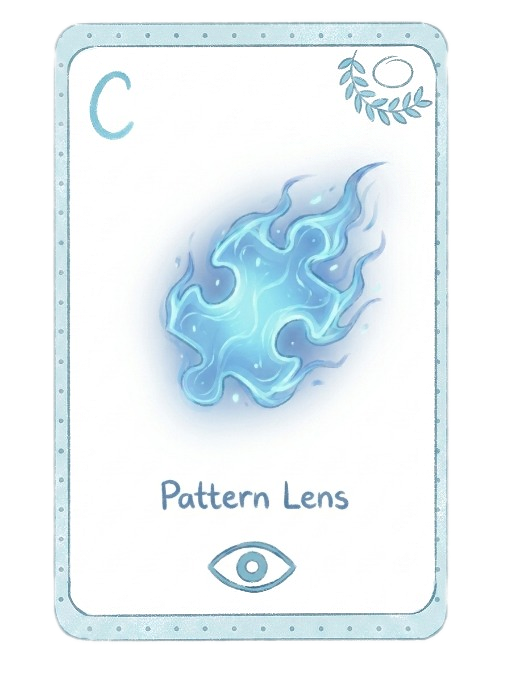
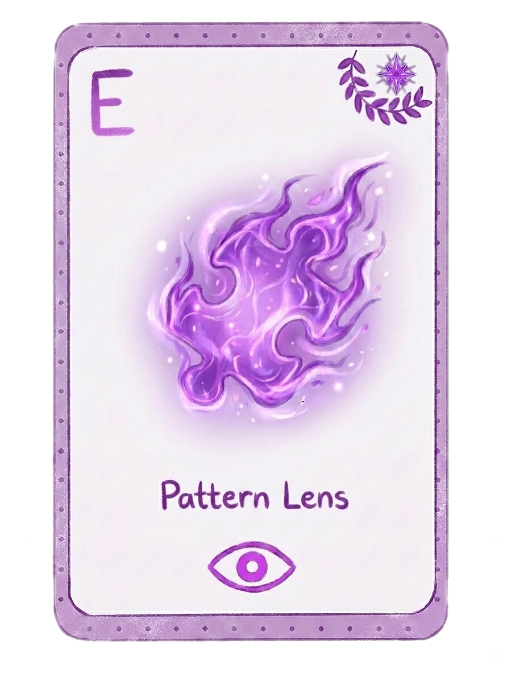
Alteracoes Website 09/05/2026 - Alteracao de designs de blessings

diff --git a/src/components/CollectibleAvatar.jsx b/src/components/CollectibleAvatar.jsx
@@ -15,6 +15,10 @@ function CollectibleAvatar({ collectibleName, className, style = {} }) {
 
     if (collectibleName.toLowerCase() === 'vhs tape') {
       fileName = 'VHS Tape.png';
+    } else if (collectibleName.toLowerCase() === 'dream pillows' || collectibleName.toLowerCase() === 'dreams pillow') {
+      fileName = 'Dreams Pillow.png';
+    } else if (collectibleName.toLowerCase() === 'climbing trophy') {
+      fileName = 'Climbing Trophy.png';
     }
 
     // Try multiple path patterns to ensure we find the local image